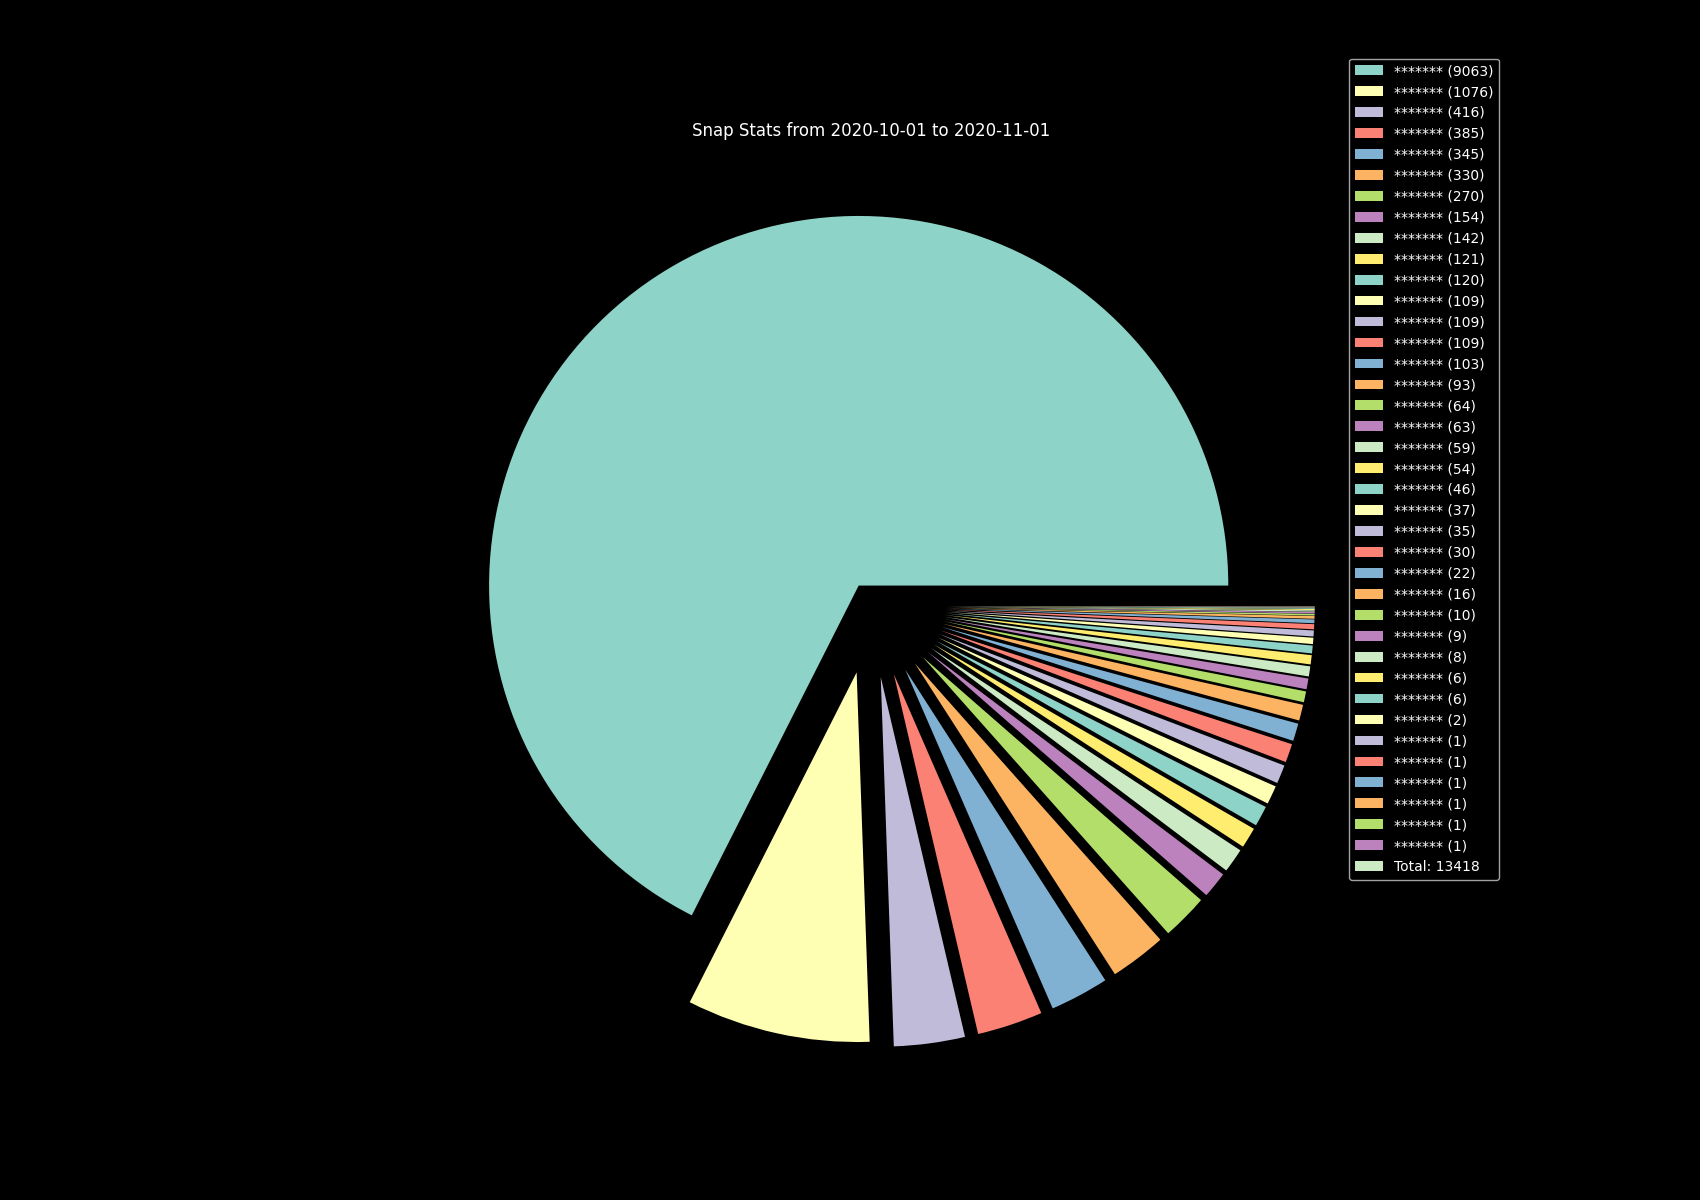
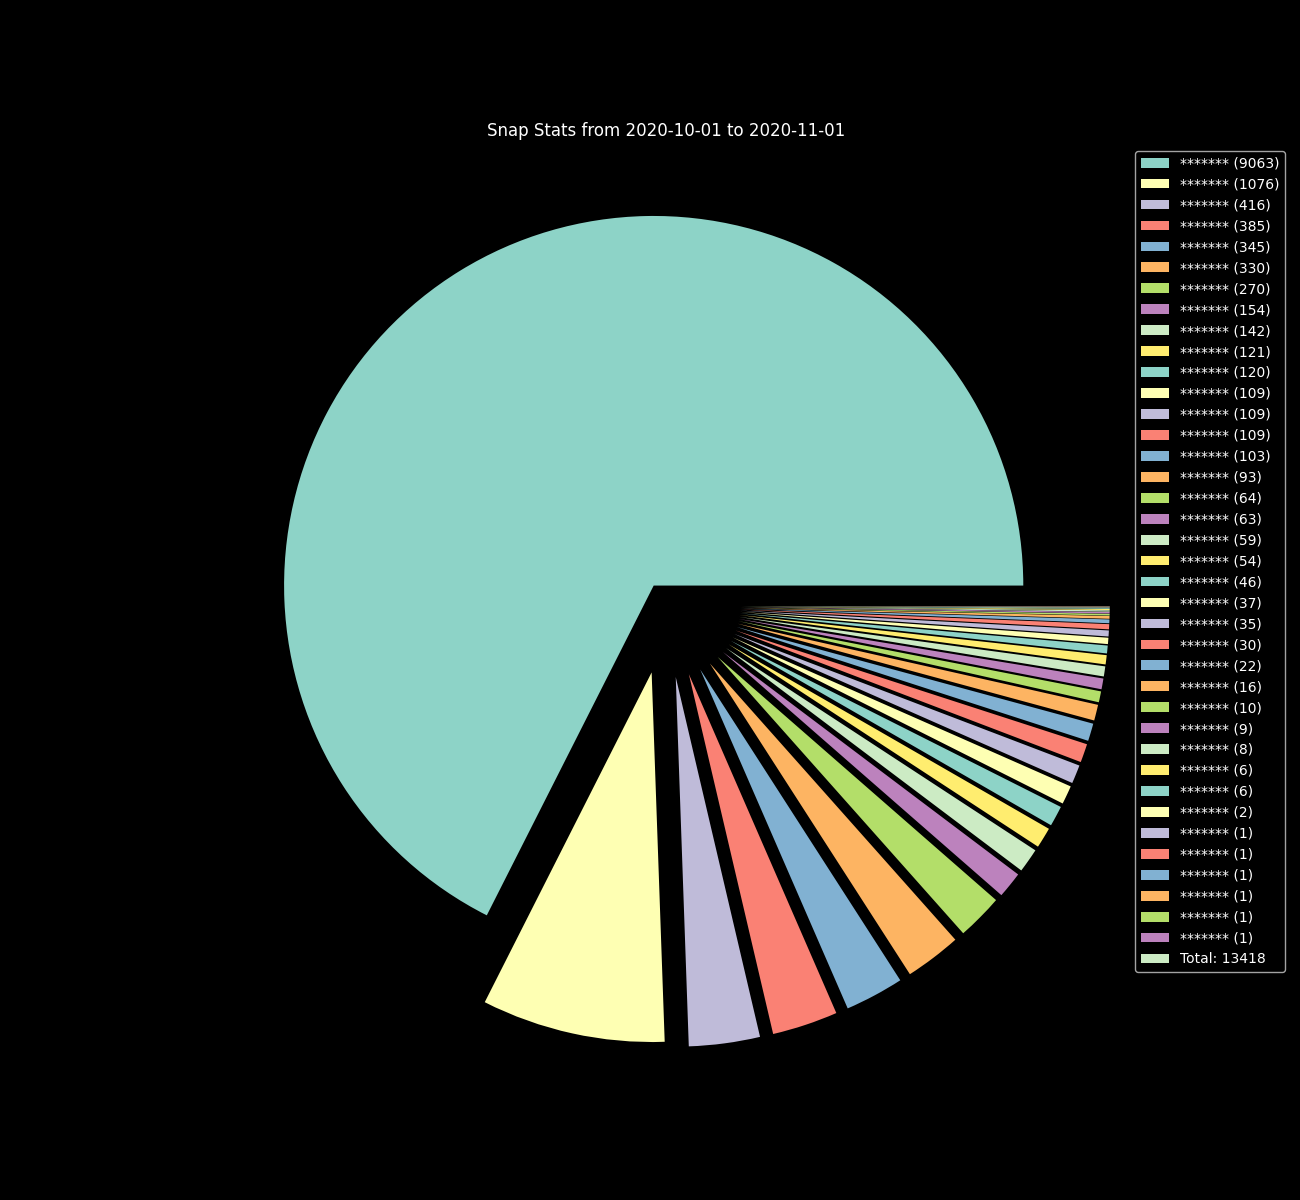
.

Changed region(s): [[0.2154, 0.0308, 1.0, 0.8942], [0.3692, 0.0925, 0.6462, 0.1233], [0.4923, 0.4933, 0.5231, 0.5242]]

diff --git a/analyse.py b/analyse.py
@@ -115,7 +115,7 @@ class parser:
 		if not self.hasParsed:
 			raise RuntimeError("Cant evaluate without parsing!")
 		fname = f"{O_PATH}/{fname}.png"  # parse filename
-		fig_X = 17
+		fig_X = 13
 		fig_Y = 12
 		plt.style.use('dark_background')  # darkmode is superior
 		sorted_stats = self.get_sorted()
@@ -143,7 +143,7 @@ class parser:
 		plt.title(
 			f"Snap Stats from {self.minDate[:10]} to {self.maxDate[:10]}")
 		plt.pie(data, explode=explode)  # draw pie chart
-		plt.legend(labels, bbox_to_anchor=(1.01, 1.15))
+		plt.legend(labels, bbox_to_anchor=(1, 1.0))
 		plt.savefig(fname)  # export
 
 	def __repr__(self) -> str:
